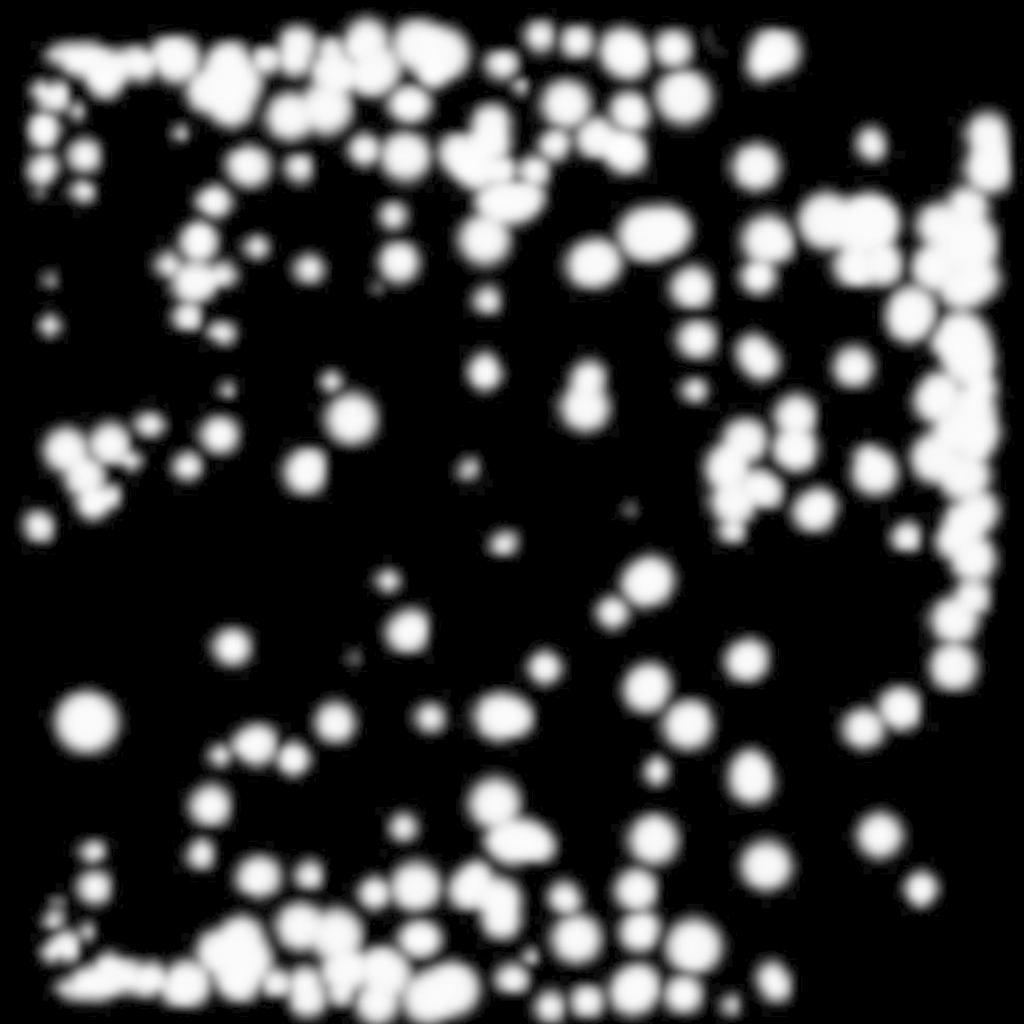
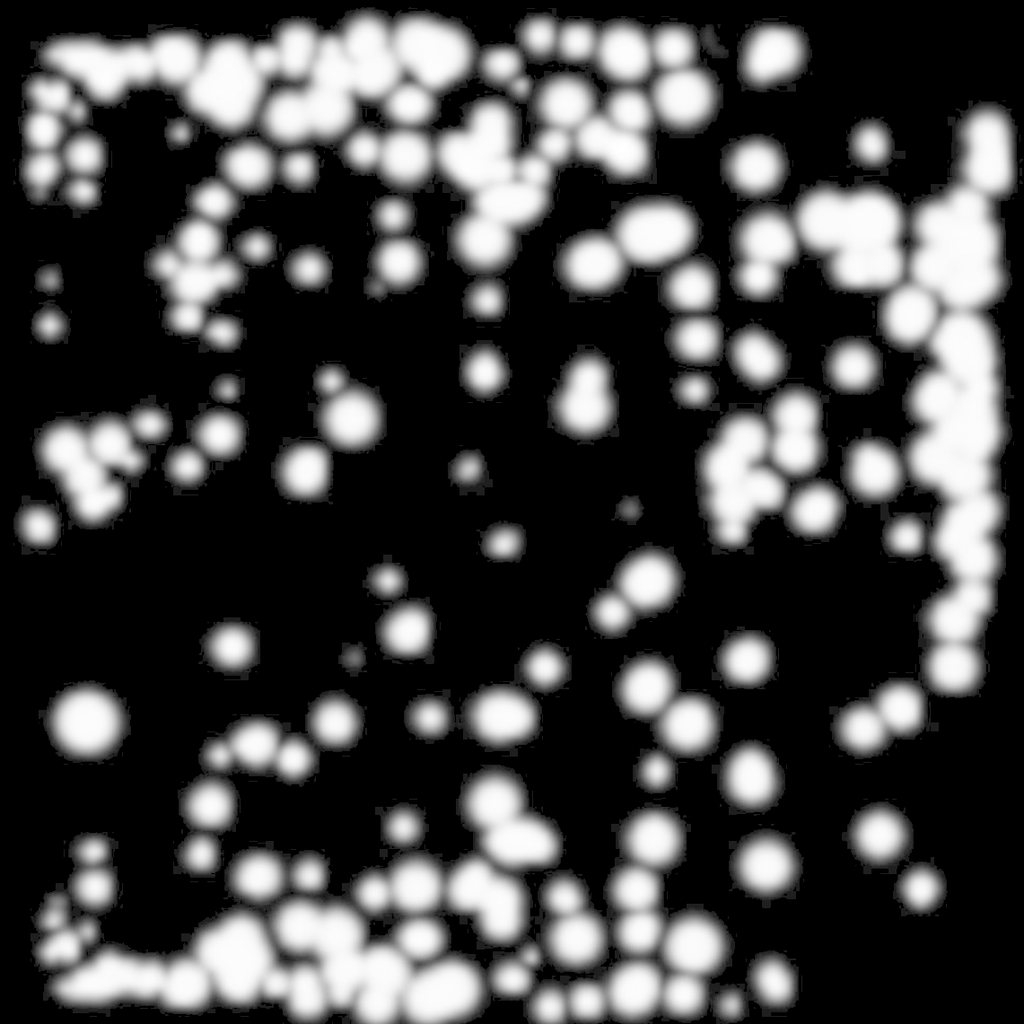
feat(canvas): clone attempt 2 — real plaster/concrete grains from the targets
Extracted both targets' actual grain textures from their Grain Source pane
thumbnails (~800px, sharp) and bundled them as the first image-based grains
(Resources/BrushGrains + Package.swift resource + GrainCatalog entries:
stuccoGrain "Plaster", oldbeachGrain "Concrete"). Two mapping details:
- INVERTED on extraction: Procreate's Multiply/Height grain blends hole-punch
  where the grain is DARK; our carve removes paint where src is BRIGHT.
- Contrast-curved (gamma 2.4 / 1.8) so mid-grays stay painted and only true
  pits carve — the raw extract carved everywhere and washed the stroke out.

Presets: Stucco → stuccoGrain (depth .9, scale .18) + tip re-extracted at
gamma .38 (denser dots → coverage saturates like their near-solid reference);
Old Beach → oldbeachGrain (depth .5, scale .2) + flow up (.75/floor .5).
Harness-compared against the targets' own drawing-pad strokes; attempt 2
published to Insights for both. Same direct-capture IP status as the tips.

Validated: sim build green.

Claude-Session: https://claude.ai/code/session_018qj8wuom99TWReWUJ1Jhvh

diff --git a/ios/Packages/CanvasModule/Sources/CanvasModule/BrushPresets.swift b/ios/Packages/CanvasModule/Sources/CanvasModule/BrushPresets.swift
@@ -375,12 +375,12 @@ public enum CuratedPresetCatalog {
             b.rotationFollow = 0        // tip stamps upright (Touch only, Rotation 0)
             b.rotationJitter = 1.0
             b.spacing = 0.05
-            b.opacity = 0.95
+            b.opacity = 1.0
             b.flow = 1.0
             b.taperStart = 0.15; b.taperEnd = 0.15; b.taperOpacity = 1.0
-            b.grainID = "speckle"
-            b.grainDepth = 0.5
-            b.grainScale = 0.6
+            b.grainID = "stuccoGrain"   // the target's own plaster (pane-thumbnail extract)
+            b.grainDepth = 0.9
+            b.grainScale = 0.18
             b.grainMoving = true        // Procreate: Moving / Rolling
             b.dynamics = BrushDynamics(
                 size: CurveOption(sensors: [], strength: 1),   // AP Size 0%: no pressure size
@@ -421,16 +421,16 @@ public enum CuratedPresetCatalog {
             b.rotationFollow = 0
             b.rotationJitter = 0.3
             b.spacing = 0.16
-            b.opacity = 0.75
-            b.flow = 0.55
-            b.grainID = "paper"
-            b.grainDepth = 0.7
-            b.grainScale = 0.7
+            b.opacity = 0.88
+            b.flow = 0.75
+            b.grainID = "oldbeachGrain" // the target's own concrete (pane-thumbnail extract)
+            b.grainDepth = 0.5
+            b.grainScale = 0.2
             b.grainMoving = false       // Texturized
             b.tipLightness = 0.85
             b.dynamics = BrushDynamics(
                 size: CurveOption(sensors: [SensorChannel(sensor: .pressure)], minValue: 0.74),
-                flow: CurveOption(sensors: [SensorChannel(sensor: .pressure)], minValue: 0.35),
+                flow: CurveOption(sensors: [SensorChannel(sensor: .pressure)], minValue: 0.5),
                 // Azimuth input style: the pencil's tilt direction orients the tip.
                 rotation: CurveOption(sensors: [SensorChannel(sensor: .tiltDirection)], fold: .rotationLike),
                 dabColorJitter: ColorJitter(hue: 0.02, saturation: 0.02, brightness: 0.02, darkness: 0.02))

diff --git a/ios/Packages/CanvasModule/Sources/CanvasModule/BrushShapeCatalog.swift b/ios/Packages/CanvasModule/Sources/CanvasModule/BrushShapeCatalog.swift
@@ -141,6 +141,12 @@ public enum GrainCatalog {
         GrainDescriptor(id: "paper", displayName: "Paper", nativeScale: 1.0),
         GrainDescriptor(id: "canvasWeave", displayName: "Canvas", nativeScale: 1.2),
         GrainDescriptor(id: "speckle", displayName: "Speckle", nativeScale: 1.6),
+        // Cloned Procreate grains (2026-07-18): extracted from the targets' Grain Source
+        // pane thumbnails, INVERTED (their Multiply/Height blends hole-punch where the
+        // grain is dark; our carve removes paint where src is bright). Same "direct
+        // capture, IP follow-up open" status as the shape tips.
+        GrainDescriptor(id: "stuccoGrain", displayName: "Plaster", nativeScale: 1.0, resourceName: "stuccoGrain"),
+        GrainDescriptor(id: "oldbeachGrain", displayName: "Concrete", nativeScale: 1.0, resourceName: "oldbeachGrain"),
     ]
     public static func descriptor(for id: String?) -> GrainDescriptor? {
         guard let id else { return nil }

diff --git a/ios/Packages/CanvasModule/Package.swift b/ios/Packages/CanvasModule/Package.swift
@@ -20,6 +20,8 @@ let package = Package(
                 // Folder-referenced grayscale brush-stamp PNGs (luminance = coverage).
                 // Drop a PNG in here + add a BrushShapeCatalog entry to expose a new shape.
                 .copy("Resources/BrushShapes"),
+                // Image-based grain tiles (cloned Procreate grains) — see GrainCatalog.
+                .copy("Resources/BrushGrains"),
             ]
         ),
     ]
